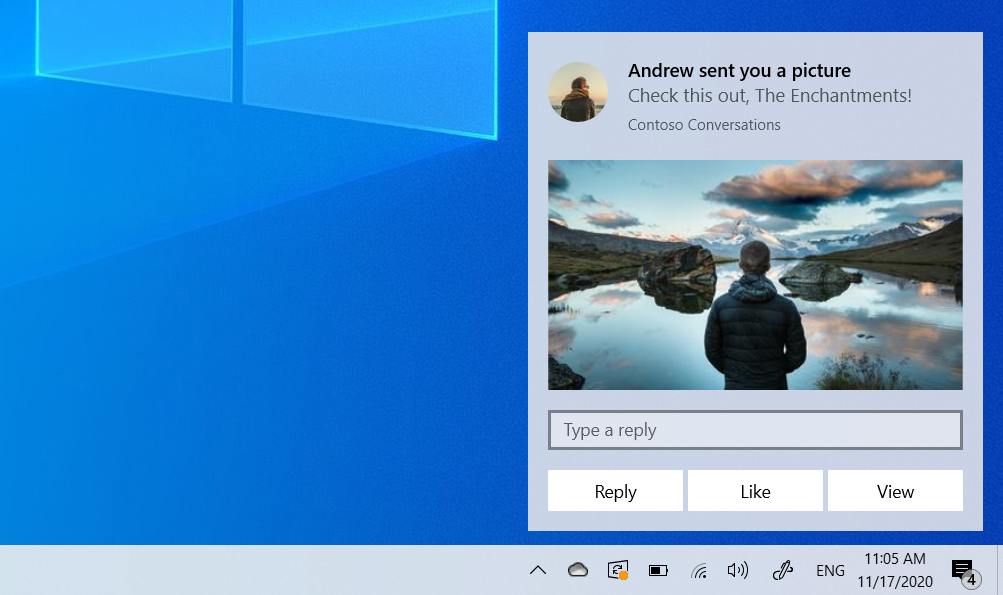
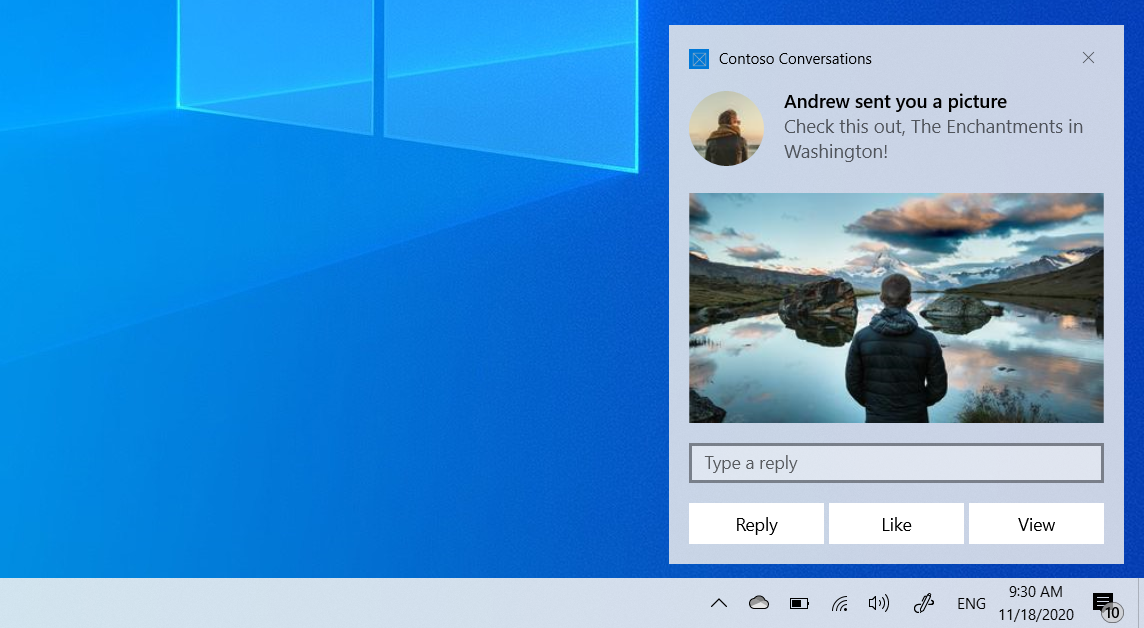
Updated toast visuals for send toast

Changed region(s): [[0.0, 0.0, 1.0, 1.0], [0.0618, 0.1815, 0.0927, 0.2118]]

diff --git a/windows-apps-src/design/shell/tiles-and-notifications/scheduled-toast.md b/windows-apps-src/design/shell/tiles-and-notifications/scheduled-toast.md
@@ -32,12 +32,9 @@ To fully understand this topic, the following will be helpful...
 
 ## Step 1: Install NuGet package
 
-Install the [Microsoft.Toolkit.Uwp.Notifications NuGet package](https://www.nuget.org/packages/Microsoft.Toolkit.Uwp.Notifications/). Our code sample will use this package. At the end of the article we'll provide the "plain" code snippets that don't use any NuGet packages. This package allows you to create toast notifications without using XML, and also allows Win32 apps to send toasts.
+[!INCLUDE [nuget package](includes/nuget-package.md)]
 
-> [!IMPORTANT]
-> .NET Framework Win32 apps that still use packages.config must migrate to PackageReference, otherwise the Windows 10 SDKs won't be referenced correctly. In your project, right-click on "References", and click "Migrate packages.config to PackageReference".
-> 
-> .NET Core 3.0 WPF apps must update to .NET Core 3.1, otherwise the APIs will be absent.
+[!INCLUDE [nuget package .NET warnings](includes/nuget-package-dotnet-warnings.md)]
 
 
 ## Step 2: Add namespace declarations
@@ -119,7 +116,7 @@ See the [send a local toast](send-local-toast.md) docs to learn more about handl
 
 ## Adding actions, inputs, and more
 
-See the [send a local toast](send-local-toast.md) docs to learn more about advanced topics like actions and inputs. Actions and inputs work the same in local toasts as they do in scheduled toasts.
+See the [send a local toast](send-local-toast.md) docs to learn more about advanced topics like actions and inputs. Actions and inputs work the same in scheduled toasts as they do in local toasts.
 
 
 ## Resources

diff --git a/windows-apps-src/design/shell/tiles-and-notifications/send-local-toast.md b/windows-apps-src/design/shell/tiles-and-notifications/send-local-toast.md
@@ -22,6 +22,8 @@ ms.localizationpriority: medium
 
 [!INCLUDE [nuget package](includes/nuget-package.md)]
 
+[!INCLUDE [nuget package .NET warnings](includes/nuget-package-dotnet-warnings.md)]
+
 Our code sample will use this package. This package allows you to create toast notifications without using XML, and also allows Win32 apps to send toasts.
 
 ## Step 2: Add namespace declarations
@@ -41,7 +43,7 @@ new ToastContentBuilder()
     .AddArgument("action", "viewConversation")
     .AddArgument("conversationId", 9813)
     .AddText("Andrew sent you a picture")
-    .AddText("Check this out, Happy Canyon in Utah!")
+    .AddText("Check this out, The Enchantments in Washington!")
     .Show();
 ```
 
@@ -563,7 +565,7 @@ using Windows.Data.Xml.Dom;
 
 // In a real app, these would be initialized with actual data
 string title = "Andrew sent you a picture";
-string content = "Check this out, Happy Canyon in Utah!";
+string content = "Check this out, The Enchantments in Washington!";
 string image = "http://blogs.msdn.com/cfs-filesystemfile.ashx/__key/communityserver-blogs-components-weblogfiles/00-00-01-71-81-permanent/2727.happycanyon1_5B00_1_5D00_.jpg";
 string logo = "ms-appdata:///local/Andrew.jpg";
  

diff --git a/windows-apps-src/design/shell/tiles-and-notifications/send-local-toast-react-native.md b/windows-apps-src/design/shell/tiles-and-notifications/send-local-toast-react-native.md
@@ -48,7 +48,7 @@ new ToastContentBuilder()
         .Set("action", "openConversation")
         .Set("conversationId", 9813))
     .AddText("Andrew sent you a picture")
-    .AddText("Check this out, Happy Canyon in Utah!")
+    .AddText("Check this out, The Enchantments in Washington!")
     .Show();
 ```
 
@@ -619,7 +619,7 @@ using Windows.Data.Xml.Dom;
 
 // In a real app, these would be initialized with actual data
 string title = "Andrew sent you a picture";
-string content = "Check this out, Happy Canyon in Utah!";
+string content = "Check this out, The Enchantments in Washington!";
 string image = "http://blogs.msdn.com/cfs-filesystemfile.ashx/__key/communityserver-blogs-components-weblogfiles/00-00-01-71-81-permanent/2727.happycanyon1_5B00_1_5D00_.jpg";
 string logo = "ms-appdata:///local/Andrew.jpg";
  

diff --git a/windows-apps-src/design/shell/tiles-and-notifications/includes/send-toast-intro.md b/windows-apps-src/design/shell/tiles-and-notifications/includes/send-toast-intro.md
@@ -1,5 +1,5 @@
-A toast notification is a message that an app can construct and deliver to the user while they are not currently inside your app.
+A toast notification is a message that your app can construct and deliver to your user while they are not currently inside your app.
 
-<img src="images/toast-notification.png" width="595" alt="Screenshot of a toast notification"/>
+<img src="images/toast-notification.png" width="628" alt="Screenshot of a toast notification"/>
 
 This quickstart walks you through the steps to create, deliver, and display a Windows 10 toast notification using rich content and interactive actions. This quickstart uses local notifications, which are the simplest notification to implement.

diff --git a/windows-apps-src/design/shell/tiles-and-notifications/send-local-toast-cpp-winrt.md b/windows-apps-src/design/shell/tiles-and-notifications/send-local-toast-cpp-winrt.md
@@ -107,7 +107,7 @@ doc.LoadXml(L"<toast>\
 
 // Populate with text and values
 doc.SelectSingleNode(L"//text[1]").InnerText(L"Andrew sent you a picture");
-doc.SelectSingleNode(L"//text[2]").InnerText(L"Check this out, Happy Canyon in Utah!");
+doc.SelectSingleNode(L"//text[2]").InnerText(L"Check this out, The Enchantments in Washington!");
 
 // Construct the notification
 ToastNotification notif{ doc };

diff --git a/windows-apps-src/design/shell/tiles-and-notifications/send-local-toast-other-apps.md b/windows-apps-src/design/shell/tiles-and-notifications/send-local-toast-other-apps.md
@@ -100,7 +100,7 @@ doc.LoadXml(L"<toast>\
 
 // Populate with text and values
 doc.SelectSingleNode(L"//text[1]").InnerText(L"Andrew sent you a picture");
-doc.SelectSingleNode(L"//text[2]").InnerText(L"Check this out, Happy Canyon in Utah!");
+doc.SelectSingleNode(L"//text[2]").InnerText(L"Check this out, The Enchantments in Washington!");
 
 // Construct the notification
 ToastNotification notif{ doc };

diff --git a/windows-apps-src/design/shell/tiles-and-notifications/includes/nuget-package-dotnet-warnings.md b/windows-apps-src/design/shell/tiles-and-notifications/includes/nuget-package-dotnet-warnings.md
@@ -1,0 +1,4 @@
+> [!IMPORTANT]
+> .NET Framework Win32 apps that still use packages.config must migrate to PackageReference, otherwise the Windows 10 SDKs won't be referenced correctly. In your project, right-click on "References", and click "Migrate packages.config to PackageReference".
+> 
+> .NET Core 3.0 WPF apps must update to .NET Core 3.1, otherwise the APIs will be absent.

diff --git a/windows-apps-src/design/shell/tiles-and-notifications/send-local-toast-cpp-uwp.md b/windows-apps-src/design/shell/tiles-and-notifications/send-local-toast-cpp-uwp.md
@@ -39,7 +39,7 @@ using namespace Microsoft::Toolkit::Uwp::Notifications;
     ->AddArgument("action", "viewConversation")
     ->AddArgument("conversationId", 9813)
     ->AddText("Andrew sent you a picture")
-    ->AddText("Check this out, Happy Canyon in Utah!")
+    ->AddText("Check this out, The Enchantments in Washington!")
     ->Show();
 ```
 
